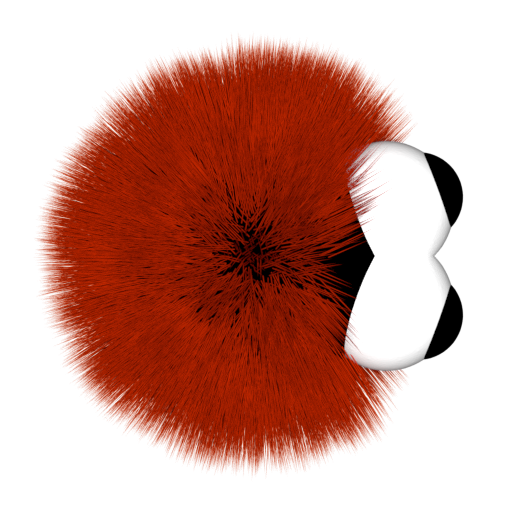
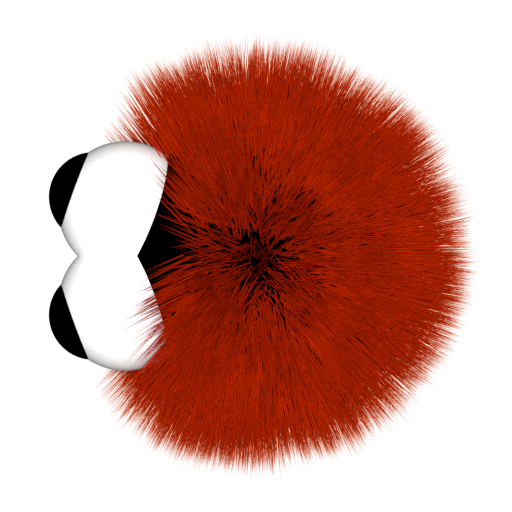
Added values from sliders to minion, added possibility to set minions for both players (for testing)

diff --git a/Game/core/src/com/mygdx/game/GameScreen.java b/Game/core/src/com/mygdx/game/GameScreen.java
@@ -7,18 +7,13 @@ import com.badlogic.gdx.graphics.Texture;
 import com.badlogic.gdx.scenes.scene2d.Group;
 import com.badlogic.gdx.scenes.scene2d.InputEvent;
 import com.badlogic.gdx.scenes.scene2d.Stage;
-import com.badlogic.gdx.scenes.scene2d.ui.Button;
-import com.badlogic.gdx.scenes.scene2d.ui.Image;
-import com.badlogic.gdx.scenes.scene2d.ui.ImageButton;
-import com.badlogic.gdx.scenes.scene2d.ui.Table;
-import com.badlogic.gdx.scenes.scene2d.ui.TextButton;
 import com.badlogic.gdx.scenes.scene2d.utils.ClickListener;
-import com.badlogic.gdx.scenes.scene2d.utils.Drawable;
 import com.badlogic.gdx.utils.Array;
 import com.mygdx.game.BattleField.BattleField;
 import com.mygdx.game.Nodes.ButtonNode;
 import com.mygdx.game.Nodes.ManaBarNode;
 import com.mygdx.game.Nodes.SliderNode;
+import com.mygdx.game.Nodes.SliderType;
 
 /**
  * Created by greensn on 08.11.17.
@@ -104,7 +99,7 @@ public class GameScreen implements Screen {
             public void clicked(InputEvent event, float x, float y)
             {
                 System.out.println("Turn");
-                battleField.placeFloatingMinion();
+                placeAction();
             }
         });
     }
@@ -117,9 +112,9 @@ public class GameScreen implements Screen {
         sliderGroup.setPosition(1f/30f * stage.getWidth(), 0.03f * stage.getHeight());
         stage.addActor(sliderGroup);
 
-        for (int i = 0; i < 8; i++)
+        for (int i = 0; i < SliderType.numberOfTypes; i++)
         {
-            SliderNode slider = new SliderNode(20, manaBarNode);
+            SliderNode slider = new SliderNode(SliderType.values()[i], manaBarNode);
             slider.setPosition((0.04f + (0.12f * (float)i)) * sliderGroup.getWidth(), 0);
             slider.setWidth(0.08f * sliderGroup.getWidth());
             slider.setHeight(sliderGroup.getHeight());
@@ -181,5 +176,24 @@ public class GameScreen implements Screen {
     private void quitAction()
     {
         game.setScreen(new MainMenuScreen(game));
+    }
+
+    private void placeAction()
+    {
+        if (battleField.floatingMinion != null)
+        {
+            for (SliderNode slider:sliders)
+            {
+                battleField.floatingMinion.minion.setAttribute(slider.type.toString(), slider.getSliderValue());
+            }
+            battleField.floatingMinion.minion.setAttribute("MaxHealth", battleField.floatingMinion.minion.getAttribute("Health"));
+        }
+        battleField.placeFloatingMinion();
+    }
+
+    public void gameOver()
+    {
+        Boolean leftWinner = battleField.battleFieldLogic.isLeftPlayerTurn;
+        quitAction();
     }
 }

diff --git a/Game/core/src/com/mygdx/game/BattleField/BattleField.java b/Game/core/src/com/mygdx/game/BattleField/BattleField.java
@@ -2,9 +2,7 @@ package com.mygdx.game.BattleField;
 
 import com.badlogic.gdx.Gdx;
 import com.badlogic.gdx.graphics.Texture;
-import com.badlogic.gdx.graphics.g2d.Batch;
 import com.badlogic.gdx.math.GridPoint2;
-import com.badlogic.gdx.math.Vector;
 import com.badlogic.gdx.math.Vector2;
 import com.badlogic.gdx.scenes.scene2d.Group;
 import com.badlogic.gdx.scenes.scene2d.InputEvent;
@@ -20,9 +18,9 @@ import com.mygdx.game.UIConstants;
 public class BattleField extends Group {
 
     Texture backgroundTexture = new Texture(Gdx.files.internal("BattlefieldBackground.png"));
-    BattleFieldLogic battleFieldLogic;
+    public BattleFieldLogic battleFieldLogic;
 
-    MinionNode floatingMinion;
+    public MinionNode floatingMinion;
     GameScreen game;
 
     public BattleField(GameScreen game)
@@ -66,11 +64,13 @@ public class BattleField extends Group {
     void draggedTo(float x, float y)
     {
         GridPoint2 coord = positionToCoordinates(new Vector2(x, y));
-        if (coord.x >= 4) return;
+        if (coord.x >= 4 && battleFieldLogic.isLeftPlayerTurn) return;
+        if (coord.x <= 5 && !battleFieldLogic.isLeftPlayerTurn) return;
+
         if (battleFieldLogic.getMinionNode(coord.x, coord.y) != null) return;
 
         if (floatingMinion == null) {
-            floatingMinion = new MinionNode(true); //only for left side player so far
+            floatingMinion = new MinionNode(battleFieldLogic.isLeftPlayerTurn); //only for left side player so far
             floatingMinion.setWidth(getWidth()/UIConstants.battleFieldTilesHorizontal);
             floatingMinion.setHeight(getHeight()/UIConstants.battleFieldTilesVertical);
             addActor(floatingMinion);
@@ -119,7 +119,12 @@ public class BattleField extends Group {
 
         }
 
-        battleFieldLogic.doGameStep();
+        Boolean gameOver = battleFieldLogic.doGameStep();
+
+        if (gameOver)
+        {
+            game.gameOver();
+        }
 
         for (MinionNode node : battleFieldLogic.movedMinions)
         {

diff --git a/Game/core/src/com/mygdx/game/Nodes/SliderType.java b/Game/core/src/com/mygdx/game/Nodes/SliderType.java
@@ -1,0 +1,60 @@
+package com.mygdx.game.Nodes;
+
+/**
+ * Created by greensn on 10.11.17.
+ */
+
+public enum SliderType
+{
+    Health, Shield, Attack, HealingPower, AttackRange, HealBuffRange, AttackBoost, HealBuffBoost;
+
+    public static final int numberOfTypes = 8;
+
+    public int valueForStep(int step)
+    {
+        switch (this)
+        {
+            case Health: return 100 + step*50;
+            case Shield: return step*50;
+            case Attack: return step == 0 ? 10 : step*25;
+            case HealingPower: return step*10;
+            case AttackRange: return step;
+            case HealBuffRange: return step;
+            case AttackBoost: return step*10;
+            case HealBuffBoost: return step*10;
+        }
+        return 0;
+    }
+
+    public int steps()
+    {
+        switch (this)
+        {
+            case Health: return 5;
+            case Shield: return 5;
+            case Attack: return 5;
+            case HealingPower: return 5;
+            case AttackRange: return 4;
+            case HealBuffRange: return 4;
+            case AttackBoost: return 5;
+            case HealBuffBoost: return 5;
+        }
+        return 0;
+    }
+
+    @Override
+    public String toString() {
+        switch (this)
+        {
+            case Health: return "Health";
+            case Shield: return "Shield";
+            case Attack: return "AttackDmg";
+            case HealingPower: return "Healing";
+            case AttackRange: return "AttackRange";
+            case HealBuffRange: return "BuffRange";
+            case AttackBoost: return "AtkBuff";
+            case HealBuffBoost: return "HealBuff";
+        }
+        return "";
+    }
+}

diff --git a/Game/core/src/com/mygdx/game/Nodes/SliderNode.java b/Game/core/src/com/mygdx/game/Nodes/SliderNode.java
@@ -18,15 +18,17 @@ public class SliderNode extends Actor {
     Texture sliderFillTexture;
     Texture sliderHandle;
 
+    public SliderType type;
     int sliderSteps;
-    int actualStep = 0;
+    public int actualStep = 0;
 
     ManaBarNode manaBarNode;
 
-    public SliderNode(int steps, ManaBarNode manaBar)
+    public SliderNode(SliderType type, ManaBarNode manaBar)
     {
         manaBarNode = manaBar;
-        sliderSteps = steps;
+        this.type = type;
+        sliderSteps = type.steps();
 
         backgroundTexture = new Texture(Gdx.files.internal("BattlefieldBackground.png"));
         sliderFillTexture = new Texture(Gdx.files.internal("BattlefieldBackground.png"));
@@ -87,5 +89,10 @@ public class SliderNode extends Actor {
          if (actualStep < 0) actualStep = 0;
 
          manaBarNode.actualStep -= actualStep;
+     }
+
+     public int getSliderValue()
+     {
+         return type.valueForStep(actualStep);
      }
 }

diff --git a/Game/core/src/com/mygdx/game/BattleField/MinionNode.java b/Game/core/src/com/mygdx/game/BattleField/MinionNode.java
@@ -4,7 +4,6 @@ import com.badlogic.gdx.Gdx;
 import com.badlogic.gdx.graphics.Texture;
 import com.badlogic.gdx.graphics.g2d.Batch;
 import com.badlogic.gdx.scenes.scene2d.Actor;
-import com.mygdx.game.UIConstants;
 
 /**
  * Created by greensn on 09.11.17.
@@ -19,7 +18,9 @@ public class MinionNode extends Actor {
         minion = new Minion(isLeftPlayer);
 
         if (minion.isLeftPlayer) {minionTexture = new Texture(Gdx.files.internal("Minion-Blue.png"));}
-        else {minionTexture = new Texture(Gdx.files.internal("Minion-Red.png"));}
+        else {
+            minionTexture = new Texture(Gdx.files.internal("Minion-Red.png"));
+        }
     }
 
     @Override
